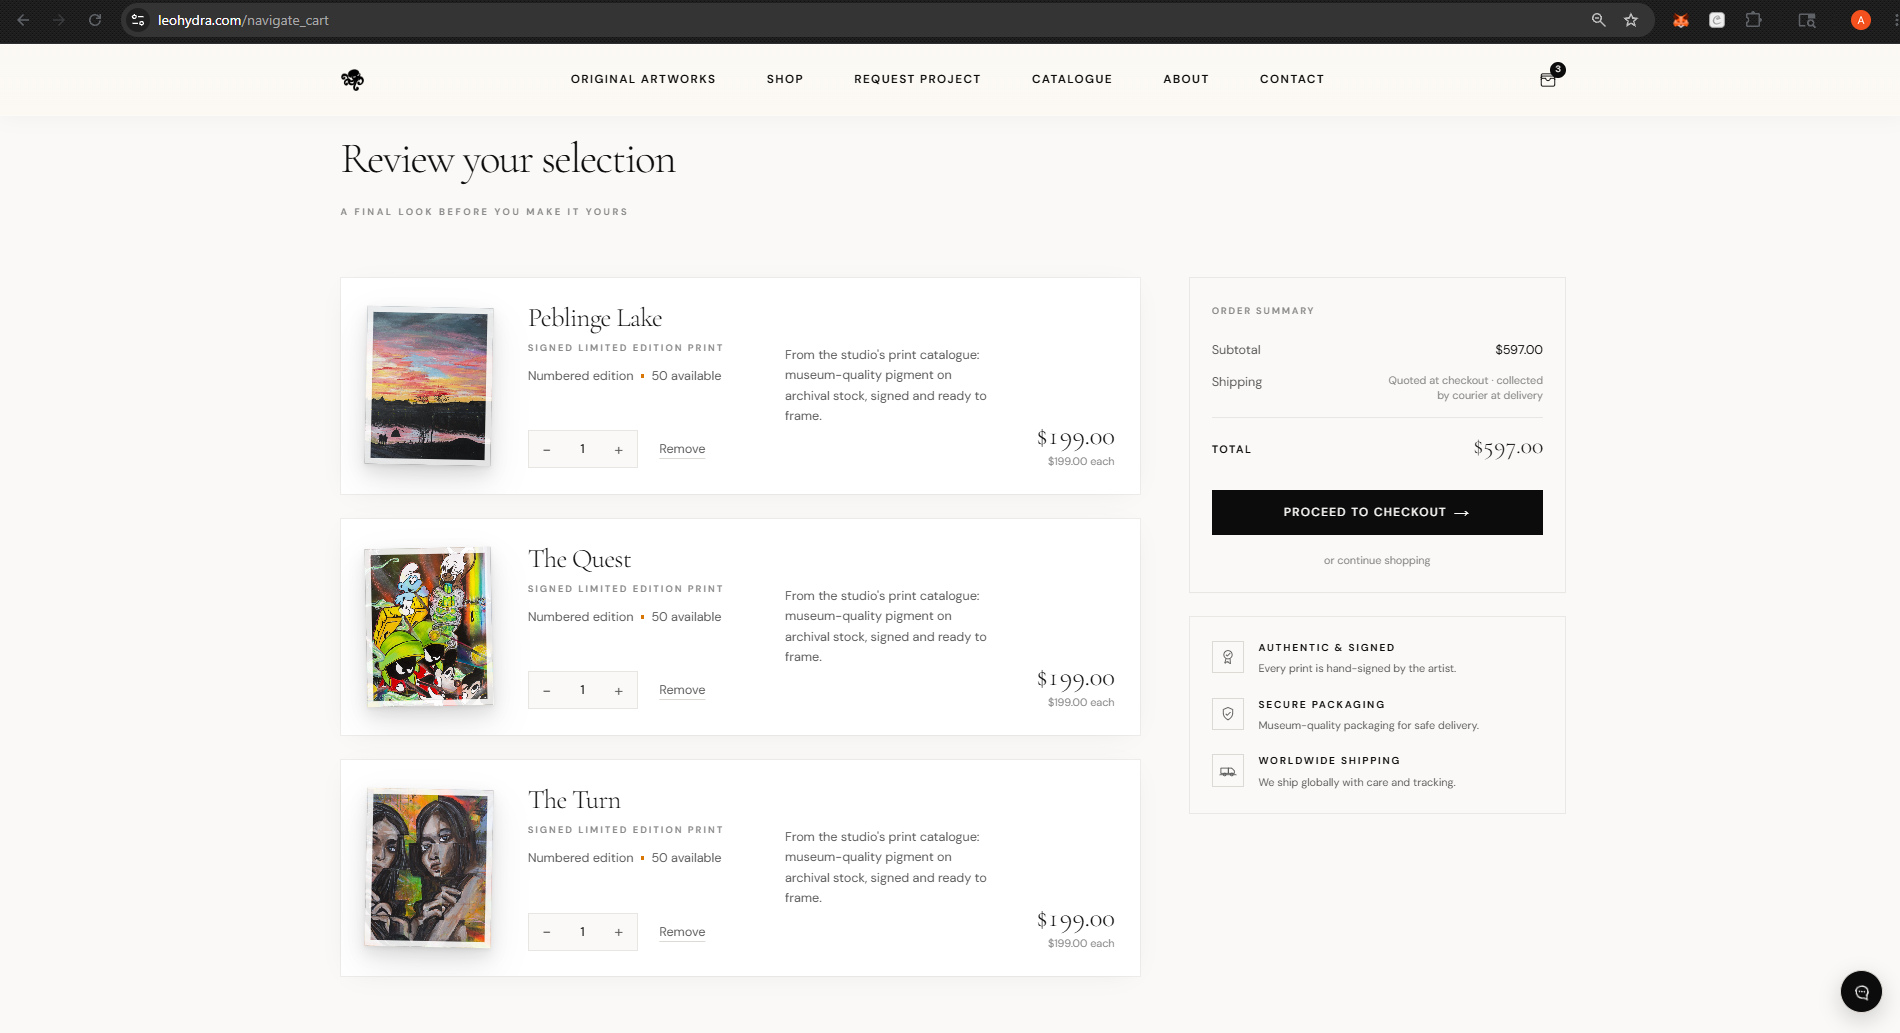
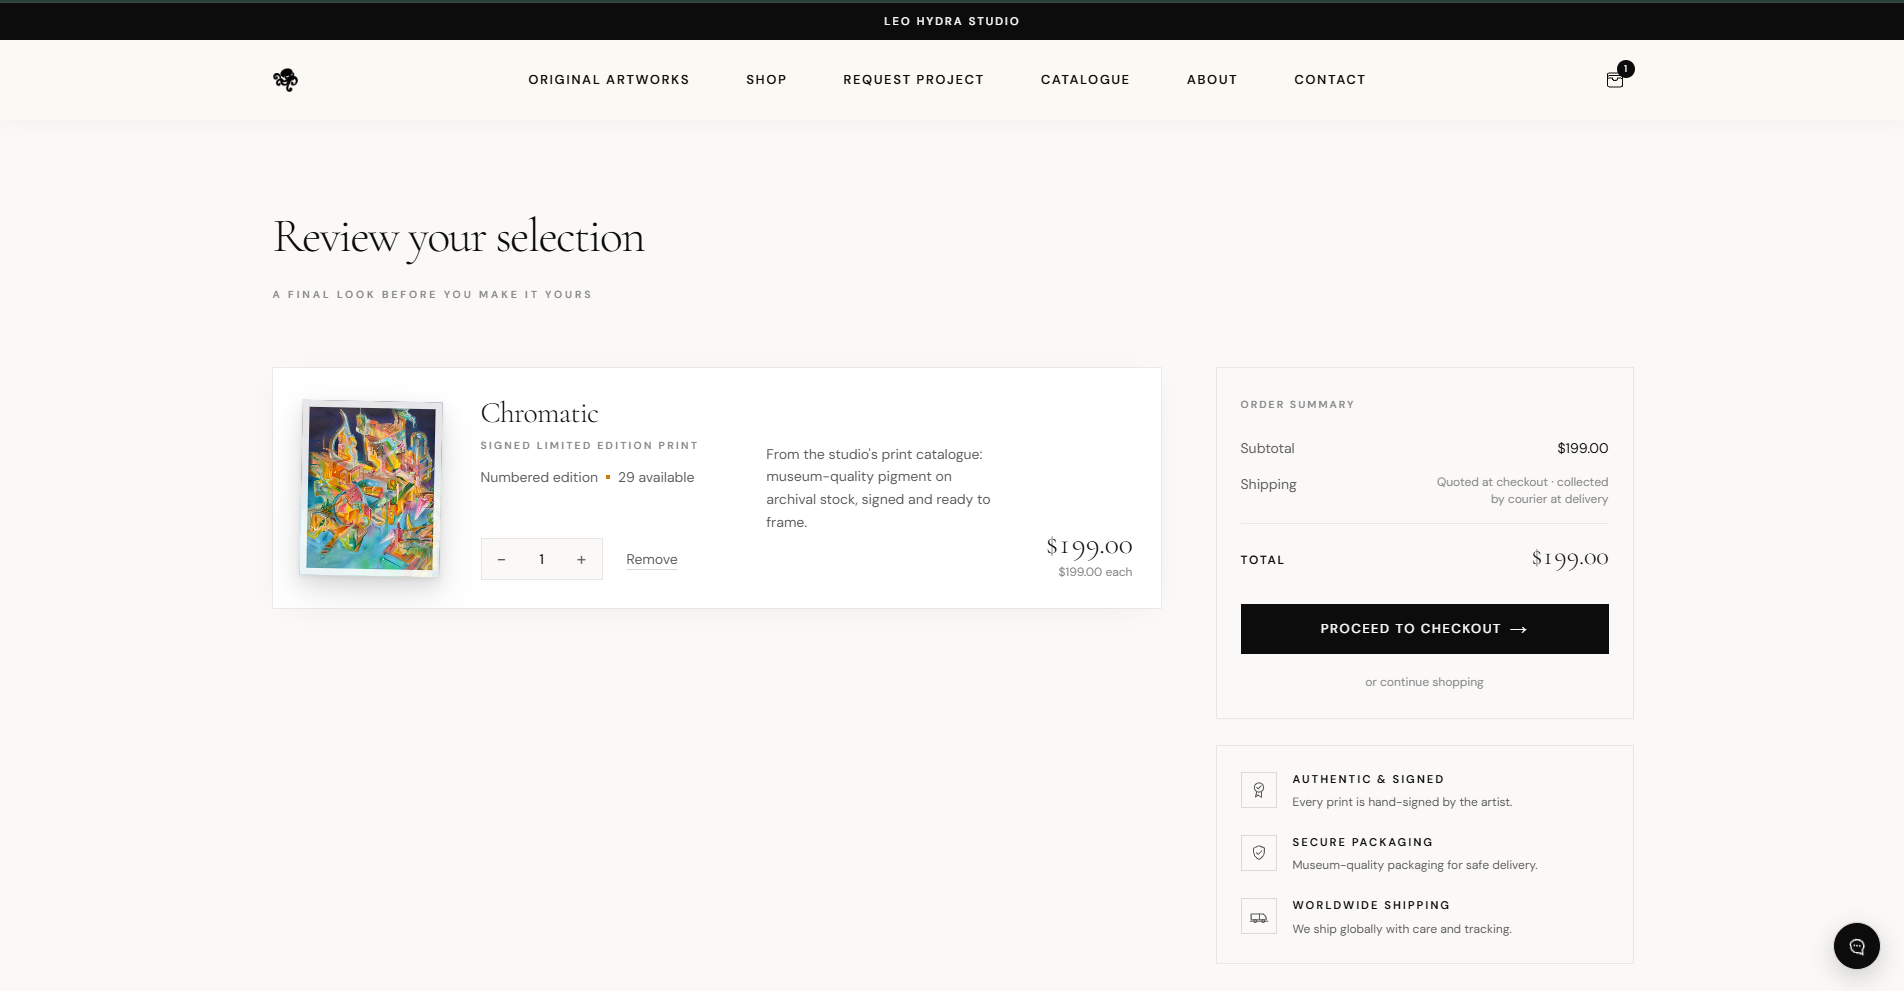
leohydra: interactive Order Lifecycle Story + 9 redacted lifecycle screenshots
New <OrderLifecycleStory /> client component:
- 9-step auto-advancing storyboard (5s/step) with hover-to-pause and click-to-jump
- AnimatePresence crossfade between screenshots; per-step caption fades in
- Sticky vertical stepper on desktop, horizontal scroller + progress dots on mobile
- Full-bleed (escapes prose width via ml-[calc(50%-50vw)] w-screen)
- Per-step progress bar animates while auto-playing, freezes on user interaction

Steps walk one real order ($199 Chromatic print, paid 199.000001 USDT on Polygon):
01 product -> 02 cart -> 03 rail picker -> 04 USDT payment -> 05 confirmation
-> 06 admin order detail -> 07 Meta CAPI dedup -> 08 Polygonscan tx -> 09 scanner match log

Also adds <Reveal />: lightweight whileInView fade-up wrapper used to ease
section paragraphs into view as the reader scrolls.

Screenshots are PII-redacted (customer name kept, email/address/wallets blurred,
admin slug + browser chrome cropped). Coherent across all 9 frames: same order
ID, same wallet, same 199.000001 amount, same matched log entry.

diff --git a/app/components/order-lifecycle-story.tsx b/app/components/order-lifecycle-story.tsx
@@ -1,0 +1,251 @@
+"use client";
+
+import { useEffect, useRef, useState } from "react";
+import Image from "next/image";
+import { motion, AnimatePresence } from "framer-motion";
+
+type Step = {
+  num: string;
+  title: string;
+  caption: string;
+  image: string;
+};
+
+const STEPS: Step[] = [
+  {
+    num: "01",
+    title: "Product",
+    caption:
+      "Reader lands on the print page. $199, edition of 50, 29 remaining. Every state (preorder / available / fully collected) is its own variant of this same UI.",
+    image: "/screenshots/leohydra-print-detail.png",
+  },
+  {
+    num: "02",
+    title: "Cart",
+    caption:
+      "Single-item review. No upsells, no quantity-of-the-month banners. Trust badges live in the right column. The CTA below leads into a real dual-rail checkout.",
+    image: "/screenshots/leohydra-cart.png",
+  },
+  {
+    num: "03",
+    title: "Checkout · rail",
+    caption:
+      "Two real rails: USDT-on-Polygon and international bank wire. Credit-card placeholder is intentionally inert. Shipping address captured first; rail picked second.",
+    image: "/screenshots/leohydra-checkout-rail.png",
+  },
+  {
+    num: "04",
+    title: "Pay · USDT",
+    caption:
+      "Send 199.000001 USDT. The trailing .000001 is the micro-offset discriminator — a unique 1–999 µUSDT slot reserved at order creation so two pending orders with identical totals can never collide on-chain.",
+    image: "/screenshots/leohydra-checkout-usdt.png",
+  },
+  {
+    num: "05",
+    title: "Confirmed",
+    caption:
+      "Order confirmation. Transactional email is already on its way via Resend; the studio gets a parallel internal alert. Both writes hit the append-only order_email_events audit table.",
+    image: "/screenshots/leohydra-order-confirmed.png",
+  },
+  {
+    num: "06",
+    title: "Admin",
+    caption:
+      "My custom admin: hero amount, lifecycle stepper (Placed → Paid → Fulfilled), email-log audit table with provider IDs, resend buttons, and the order’s atomic confirm/cancel actions.",
+    image: "/screenshots/leohydra-admin-order.png",
+  },
+  {
+    num: "07",
+    title: "Meta CAPI",
+    caption:
+      "Every conversion event (PageView, AddToCart, InitiateCheckout, AddPaymentInfo, Purchase) fires twice — browser pixel + server Conversions API — with the same event_id. Meta deduplicates server-side.",
+    image: "/screenshots/leohydra-meta-dedup.png",
+  },
+  {
+    num: "08",
+    title: "On-chain",
+    caption:
+      "Polygonscan confirms the exact 199.000001 USDT transfer to the studio wallet. Public, immutable, auditable — the discriminator amount is visible in the trailing decimals.",
+    image: "/screenshots/leohydra-polygonscan.png",
+  },
+  {
+    num: "09",
+    title: "Scanner match",
+    caption:
+      "The Vercel-cron-driven scanner walks USDT Transfer events every ~2 minutes, matches the on-chain amount to a pending order by exact micro-amount, and triggers atomic confirmation + email side-effects. End of lifecycle.",
+    image: "/screenshots/leohydra-vercel-log.png",
+  },
+];
+
+const AUTO_MS = 5000;
+
+export default function OrderLifecycleStory() {
+  const [active, setActive] = useState(0);
+  const [paused, setPaused] = useState(false);
+  const [interacted, setInteracted] = useState(false);
+  const containerRef = useRef<HTMLDivElement>(null);
+
+  // Auto-advance while not paused. Stops auto-advance after manual click.
+  useEffect(() => {
+    if (paused || interacted) return;
+    const t = setTimeout(
+      () => setActive((a) => (a + 1) % STEPS.length),
+      AUTO_MS,
+    );
+    return () => clearTimeout(t);
+  }, [active, paused, interacted]);
+
+  const step = STEPS[active];
+
+  return (
+    <div
+      ref={containerRef}
+      onMouseEnter={() => setPaused(true)}
+      onMouseLeave={() => setPaused(false)}
+      className="not-prose my-12 ml-[calc(50%-50vw)] w-screen"
+    >
+      <div className="mx-auto max-w-[1320px] px-4 sm:px-6">
+        <div className="mb-5 flex items-baseline justify-between">
+          <p className="font-mono text-[0.65rem] uppercase tracking-[0.22em] text-indigo-300/80">
+            One order · end to end
+          </p>
+          <p className="font-mono text-[0.65rem] tracking-wider text-zinc-500">
+            {paused || interacted ? "paused" : "auto · hover to pause"}
+          </p>
+        </div>
+
+        <div className="grid grid-cols-1 gap-4 md:grid-cols-[260px_1fr] md:gap-6">
+          {/* LEFT: stepper */}
+          <div className="flex shrink-0 gap-2 overflow-x-auto pb-2 md:flex-col md:overflow-visible md:pb-0">
+            {STEPS.map((s, i) => {
+              const isActive = active === i;
+              const isDone = i < active;
+              return (
+                <button
+                  key={s.num}
+                  type="button"
+                  onClick={() => {
+                    setActive(i);
+                    setInteracted(true);
+                  }}
+                  className={`group relative shrink-0 overflow-hidden rounded-lg border px-3.5 py-2.5 text-left transition-colors ${
+                    isActive
+                      ? "border-indigo-400/30 bg-indigo-400/[0.06]"
+                      : "border-zinc-800/80 bg-zinc-950/40 hover:border-zinc-700/80"
+                  }`}
+                >
+                  <div className="flex items-baseline gap-3 whitespace-nowrap">
+                    <span
+                      className={`font-mono text-[0.7rem] ${
+                        isActive
+                          ? "text-indigo-300"
+                          : isDone
+                          ? "text-zinc-500"
+                          : "text-zinc-600"
+                      }`}
+                    >
+                      {s.num}
+                    </span>
+                    <span
+                      className={`text-sm font-medium ${
+                        isActive
+                          ? "text-zinc-100"
+                          : isDone
+                          ? "text-zinc-400"
+                          : "text-zinc-500"
+                      }`}
+                    >
+                      {s.title}
+                    </span>
+                  </div>
+                  {isActive && !paused && !interacted && (
+                    <motion.div
+                      key={`bar-${active}`}
+                      className="absolute bottom-0 left-0 h-[1.5px] bg-gradient-to-r from-indigo-400 to-indigo-300/30"
+                      initial={{ width: "0%" }}
+                      animate={{ width: "100%" }}
+                      transition={{ duration: AUTO_MS / 1000, ease: "linear" }}
+                    />
+                  )}
+                  {isActive && (paused || interacted) && (
+                    <span className="absolute bottom-0 left-0 right-0 h-[1.5px] bg-indigo-400/40" />
+                  )}
+                </button>
+              );
+            })}
+          </div>
+
+          {/* RIGHT: image viewport */}
+          <div className="relative">
+            <div className="relative aspect-[16/10] overflow-hidden rounded-xl border border-zinc-800/80 bg-zinc-950 shadow-[0_24px_60px_-20px_rgba(0,0,0,0.6)]">
+              <AnimatePresence mode="wait">
+                <motion.div
+                  key={step.image}
+                  initial={{ opacity: 0, scale: 1.02 }}
+                  animate={{ opacity: 1, scale: 1 }}
+                  exit={{ opacity: 0, scale: 0.985 }}
+                  transition={{ duration: 0.55, ease: [0.22, 1, 0.36, 1] }}
+                  className="absolute inset-0"
+                >
+                  <Image
+                    src={step.image}
+                    alt={step.title}
+                    fill
+                    sizes="(min-width: 1024px) 1040px, 100vw"
+                    className="object-contain"
+                    priority={active === 0}
+                  />
+                </motion.div>
+              </AnimatePresence>
+
+              {/* caption overlay */}
+              <div className="pointer-events-none absolute inset-x-0 bottom-0 bg-gradient-to-t from-zinc-950 via-zinc-950/85 to-transparent px-5 pb-5 pt-12 sm:px-7 sm:pb-6">
+                <AnimatePresence mode="wait">
+                  <motion.div
+                    key={step.num}
+                    initial={{ opacity: 0, y: 8 }}
+                    animate={{ opacity: 1, y: 0 }}
+                    exit={{ opacity: 0, y: -4 }}
+                    transition={{ duration: 0.35, ease: "easeOut" }}
+                  >
+                    <div className="flex items-baseline gap-3">
+                      <span className="font-mono text-[0.7rem] text-indigo-300/80">
+                        {step.num} / {String(STEPS.length).padStart(2, "0")}
+                      </span>
+                      <span className="font-mono text-[0.7rem] uppercase tracking-[0.18em] text-zinc-400">
+                        {step.title}
+                      </span>
+                    </div>
+                    <p className="mt-2 max-w-[68ch] text-[0.875rem] leading-relaxed text-zinc-200 sm:text-[0.9375rem]">
+                      {step.caption}
+                    </p>
+                  </motion.div>
+                </AnimatePresence>
+              </div>
+            </div>
+
+            {/* progress dots (mobile-only convenience) */}
+            <div className="mt-3 flex justify-center gap-1.5 md:hidden">
+              {STEPS.map((s, i) => (
+                <button
+                  key={s.num}
+                  type="button"
+                  aria-label={`Jump to step ${s.num}`}
+                  onClick={() => {
+                    setActive(i);
+                    setInteracted(true);
+                  }}
+                  className={`h-1 rounded-full transition-all ${
+                    active === i
+                      ? "w-6 bg-indigo-400"
+                      : "w-1.5 bg-zinc-700 hover:bg-zinc-600"
+                  }`}
+                />
+              ))}
+            </div>
+          </div>
+        </div>
+      </div>
+    </div>
+  );
+}

diff --git a/app/components/reveal.tsx b/app/components/reveal.tsx
@@ -1,0 +1,32 @@
+"use client";
+
+import { motion, type Variants } from "framer-motion";
+import type { ReactNode } from "react";
+
+const variants: Variants = {
+  hidden: { opacity: 0, y: 18 },
+  visible: { opacity: 1, y: 0 },
+};
+
+export default function Reveal({
+  children,
+  delay = 0,
+  className,
+}: {
+  children: ReactNode;
+  delay?: number;
+  className?: string;
+}) {
+  return (
+    <motion.div
+      className={className}
+      initial="hidden"
+      whileInView="visible"
+      viewport={{ once: true, amount: 0.2 }}
+      transition={{ duration: 0.6, ease: [0.22, 1, 0.36, 1], delay }}
+      variants={variants}
+    >
+      {children}
+    </motion.div>
+  );
+}

diff --git a/app/components/mdx.tsx b/app/components/mdx.tsx
@@ -4,6 +4,8 @@ import Image from "next/image";
 import Link from "next/link";
 import { useMDXComponent } from "next-contentlayer/hooks";
 import LeoHydraSchema from "./leohydra-schema";
+import OrderLifecycleStory from "./order-lifecycle-story";
+import Reveal from "./reveal";
 
 function clsx(...args: any) {
 	return args.filter(Boolean).join(" ");
@@ -163,6 +165,8 @@ const components = {
 	),
 	Image,
 	LeoHydraSchema,
+	OrderLifecycleStory,
+	Reveal,
 };
 
 interface MdxProps {
